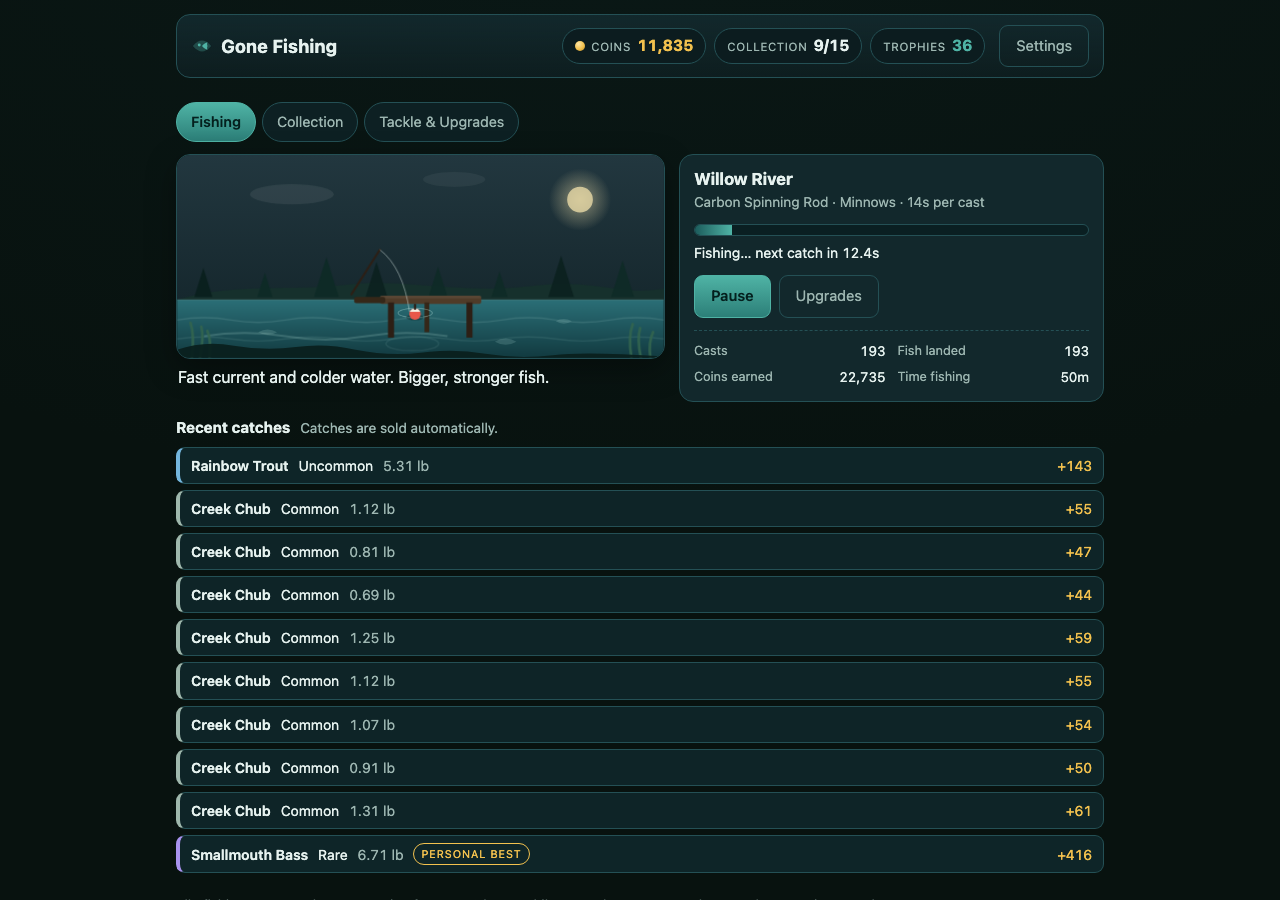
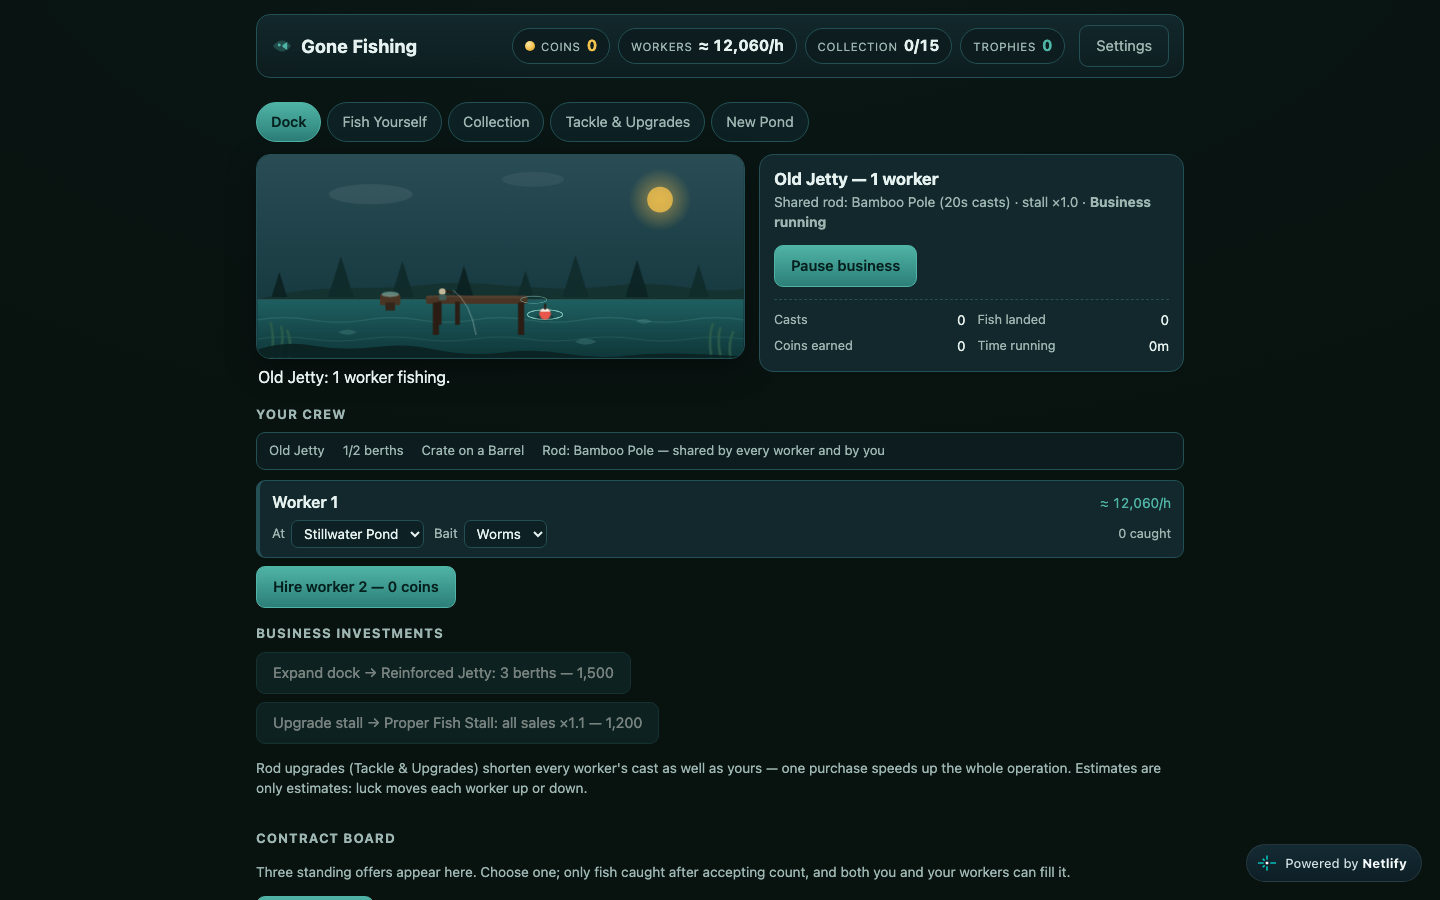
docs: refresh gameplay and deployment information

diff --git a/README.md b/README.md
@@ -5,7 +5,9 @@ and JavaScript with ES modules — no dependencies, no build step, no backend, n
 live in `localStorage`; the business keeps earning for up to 8 hours while you are away, and you
 can pick up a rod yourself whenever you feel like a 3–5 minute session.
 
-![Gone Fishing at Willow River](docs/preview.png)
+**[Play in your browser](https://gone-fishing1.netlify.app/)**
+
+![Gone Fishing: the current worker dock at Stillwater Pond](docs/preview.png)
 
 ```
 Hire workers → they fish their assigned waters automatically → fish yourself when you want to
@@ -34,15 +36,19 @@ Pure game-logic tests on Node's built-in test runner (Node 24; no test framework
 npm test                           # same as: node --test test/*.test.js
 ```
 
+Verified on 2026-09-22: **54 tests passed** on Node.js 26.8.1. Current content includes
+6 waters, 30 species, 8 rods, 5 baits, up to 6 workers and optional prestige.
+There is no build step.
+
 ## Look at the balance numbers (development only)
 
 ```bash
 npm run simulate
 ```
 
-Runs a greedy purchase policy against fixed seeds and prints coins per hour, expected value
-per cast, the time to afford each upgrade, and a comparison of the three baits measured by
-actually running the engine.
+Runs a greedy purchase policy against fixed seeds and compares idle/active income,
+purchase timing and bait tradeoffs by running the engine. These are scripted balance
+measurements, not a human playtime guarantee.
 
 ## Project layout
 
@@ -72,7 +78,7 @@ tools/simulate.mjs  fixed-seed balance simulation, idle vs active policies, pres
 (free). Every worker runs their own cast loop at their own assigned location and bait —
 different workers can fish different waters at the same time. Investments compete for the same
 coins: hire workers (worker 2 is free, 3–6 cost more), expand the dock (2→6 berths across four
-expansions), upgrade the fish stall (three levels, up to ×1.3 on every sale), and buy rod
+expansions), upgrade the fish stall (five levels including the starter, up to ×1.45 on every sale), and buy rod
 upgrades that are **shared across the whole operation** — one purchase speeds up every worker
 *and* your own hand-fishing. Each worker shows an income estimate (labeled as an estimate;
 luck moves it).
@@ -119,7 +125,7 @@ benefits from each purchase, and which items need a prestige tier.
   Cedar Hollow (prestige 1) → Frostwater Basin (2) → Starlight Mere (3). Five species per
   location, always in the order Common, Uncommon, Rare, Epic, Legendary (58% / 28% / 10% /
   3.5% / 0.5% base odds).
-- **Eight rods, five baits, three training levels, three reel-control levels.** New tiers
+- **Eight rods, five baits, four training levels, four reel-control levels.** New tiers
   (Ashgrove, Frostwind, Tideglass, Merelight rods; Cedar Berries and Moonmote baits) unlock by
   prestige count but are bought with in-run coins. Crew training shortens worker casts; reel
   control widens the manual timing target. Cast time is floored at 5 seconds.
@@ -185,5 +191,10 @@ wide and uses the space well on desktop without stretching.
 ## Deliberately not included
 
 No multiplayer, leaderboards, accounts, premium shop, real-money economy, daily rewards,
-streaks, quests, weather, prestige, skill trees, aquariums, service worker/PWA, analytics,
-deployment or any runtime AI call.
+streaks, quests, weather, skill trees, aquariums, service worker/PWA, analytics,
+any runtime AI call.
+
+## Status and license
+
+A complete, playable single-player browser game. Saves are local to a browser;
+export a backup before changing devices. No license file has been selected.

diff --git a/docs/development/handoff.md b/docs/development/handoff.md
@@ -1,3 +1,5 @@
+> Historical implementation notes. See the [current README](../../README.md) for gameplay, content counts and the live game.
+
 # HANDOFF — Gone Fishing (prestige + new ponds update)
 
 Branch `gameplay/tycoon-active-fishing` (commit `9c4d82c` was the tycoon baseline; this update
